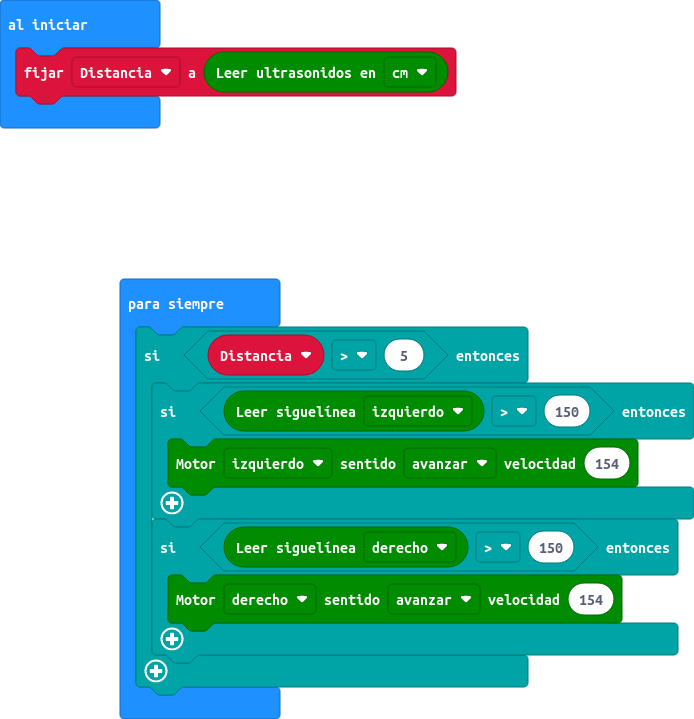
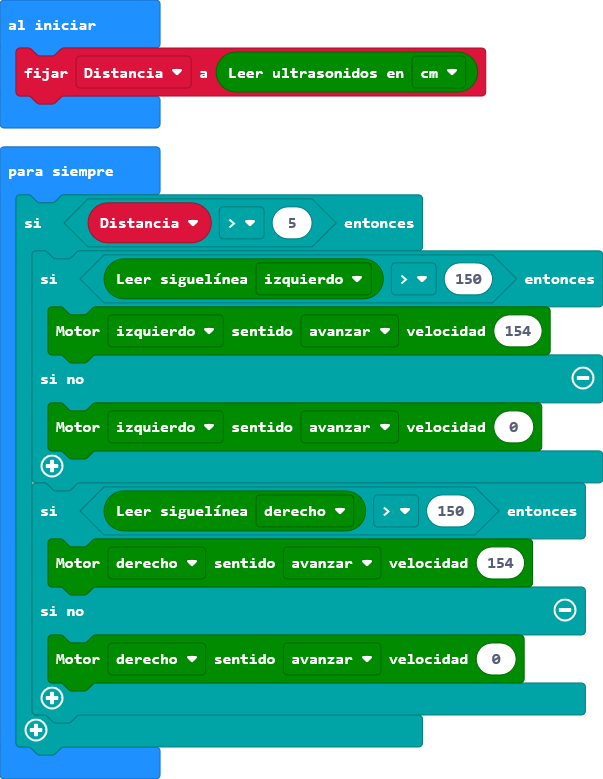
Actualizar main.blocks, main.ts

diff --git a/main.ts b/main.ts
@@ -3,9 +3,13 @@ basic.forever(function () {
     if (Distancia > 5) {
         if (maqueen.readPatrol(maqueen.Patrol.PatrolLeft) > 150) {
             maqueen.motorRun(maqueen.Motors.M1, maqueen.Dir.CW, 154)
+        } else {
+            maqueen.motorRun(maqueen.Motors.M1, maqueen.Dir.CW, 0)
         }
         if (maqueen.readPatrol(maqueen.Patrol.PatrolRight) > 150) {
             maqueen.motorRun(maqueen.Motors.M2, maqueen.Dir.CW, 154)
+        } else {
+            maqueen.motorRun(maqueen.Motors.M2, maqueen.Dir.CW, 0)
         }
     }
 })
